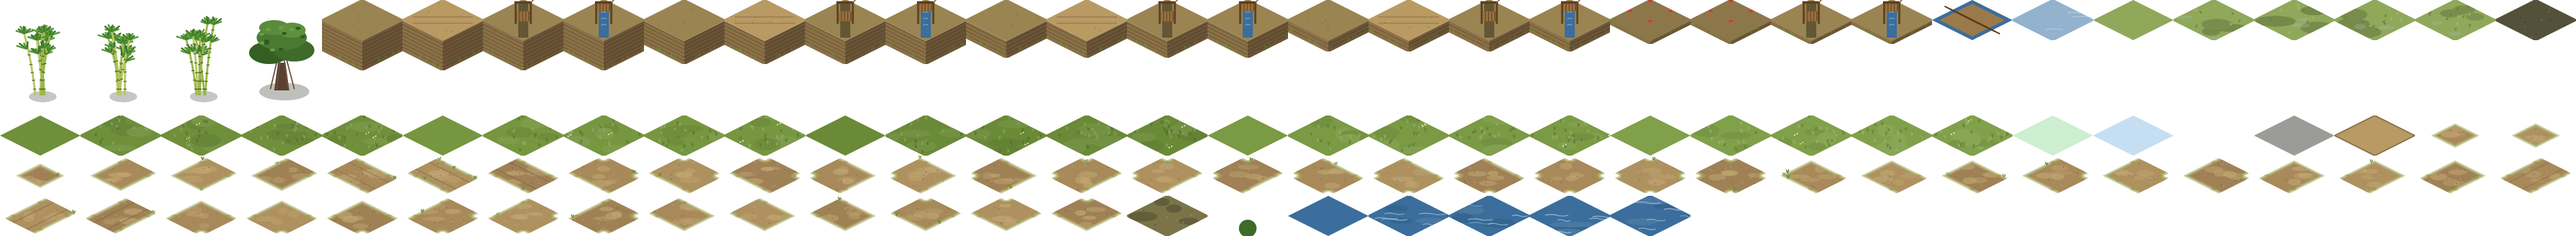
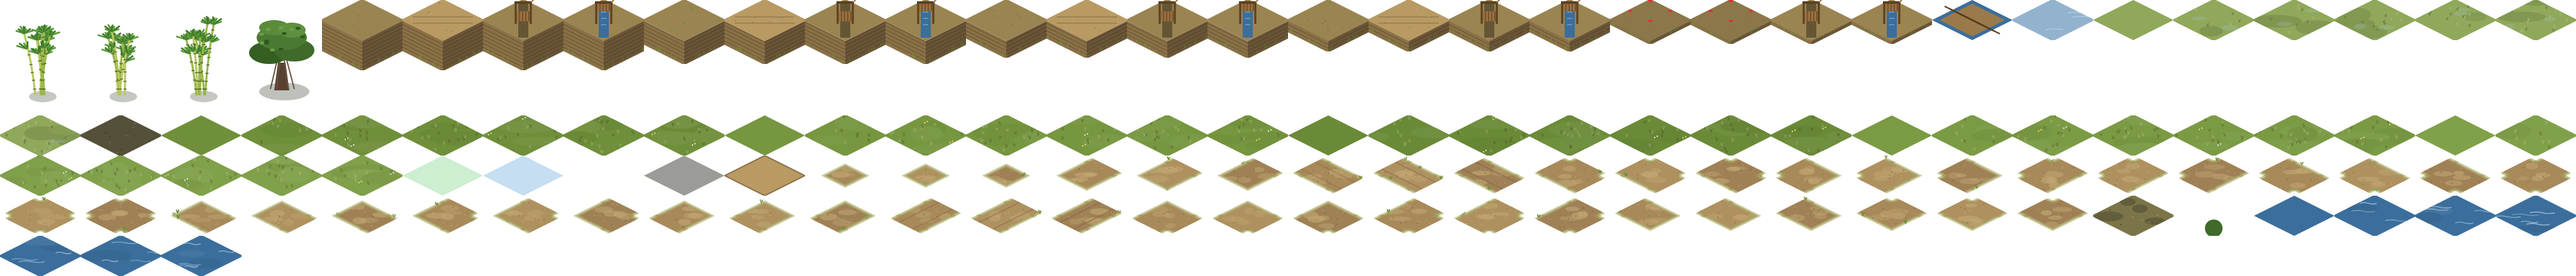
Nền đất: sửa băm ô lặp chu kỳ 4 (trộn bit, lấy bit cao), 6 biến thể nhẹ hơn, lật gương theo băm; đường và cây dùng cùng băm
Claude-Session: https://claude.ai/code/session_01P1LM4c1ZvJ6pKxVEFpyU72

diff --git a/src/render/chunks.ts b/src/render/chunks.ts
@@ -13,9 +13,15 @@ export const CHUNK = 16;
 /** số biến thể mỗi kiểu nối đường trong sheet ground (scripts/art/road.ts) */
 export const ROAD_VARIANTS = 3;
 /** số biến thể cỏ / bãi bồi / nước và cây (scripts/art/ground.ts); thiếu frame thì về frame không số */
-export const GROUND_VARIANTS = 4, TREE_VARIANTS = 4;
-/** băm ô → biến thể */
-export const tileHash = (x: number, y: number): number => (Math.imul(x, 73856093) ^ Math.imul(y, 19349663)) >>> 0;
+export const GROUND_VARIANTS = 6, TREE_VARIANTS = 4;
+/** Băm ô → số giả ngẫu nhiên 32 bit đã trộn kỹ (lấy bit cao khi chia dư: bit thấp của phép nhân lẻ lặp theo chu kỳ 2^k ô). */
+export function tileHash(x: number, y: number): number {
+  let h = (Math.imul(x, 0x9e3779b1) ^ Math.imul(y + 0x5bd1e995, 0x85ebca77)) >>> 0;
+  h ^= h >>> 15; h = Math.imul(h, 0x2c1b3c6d) >>> 0; h ^= h >>> 12; h = Math.imul(h, 0x297a2d39) >>> 0; h ^= h >>> 15;
+  return h >>> 0;
+}
+/** chia dư trên bit cao của băm */
+export const hashMod = (h: number, n: number): number => (h >>> 8) % n;
 const CHUNKS_PER_SIDE = GRID_SIZE / CHUNK;
 
 /** Kích thước móng tại ô neo: đống tro ghi kích thước vào bLevel. */
@@ -204,7 +210,7 @@ export class ChunkLayer {
 
   private ground(key: string): Texture | null { return frameOf(this.sheets.ground, key); }
   /** `${base}_${k}` nếu sheet có biến thể, không thì `base`. */
-  private variant(base: string, hash: number): string { const k = `${base}_${hash % GROUND_VARIANTS}`; return this.ground(k) ? k : base; }
+  private variant(base: string, hash: number): string { const k = `${base}_${hashMod(hash, GROUND_VARIANTS)}`; return this.ground(k) ? k : base; }
 
   /** Hoạt ảnh đè (lửa, khói): ~6 khung/giây, lặp theo số khung của mỗi loại. Gọi mỗi frame với thời gian ms. */
   animate(ms: number): void {
@@ -217,8 +223,7 @@ export class ChunkLayer {
   private roadFrame(x: number, y: number): string | null {
     const road = (xx: number, yy: number): boolean => xx >= 0 && yy >= 0 && xx < GRID_SIZE && yy < GRID_SIZE && (this.terrain[yy * GRID_SIZE + xx] & T_ROAD) !== 0;
     const mask = (road(x, y - 1) ? 1 : 0) | (road(x + 1, y) ? 2 : 0) | (road(x, y + 1) ? 4 : 0) | (road(x - 1, y) ? 8 : 0);
-    const v = (Math.imul(x, 73856093) ^ Math.imul(y, 19349663)) >>> 0;
-    const key = `road_${mask}_${v % ROAD_VARIANTS}`;
+    const key = `road_${mask}_${hashMod(tileHash(x, y), ROAD_VARIANTS)}`;
     return this.ground(key) ? key : null;
   }
 
@@ -253,9 +258,9 @@ export class ChunkLayer {
     for (const sp of this.trees.get(c) ?? []) sp.destroy();
     const treeSprites: Sprite[] = [];
     this.trees.set(c, treeSprites);
-    const add = (key: string, wx: number, wy: number): void => {
+    const add = (key: string, wx: number, wy: number, mirror = false): void => {
       const tex = this.ground(key);
-      if (tex) pc.addParticle(new Particle({ texture: tex, x: wx, y: wy + TILE_H, anchorX: 0.5, anchorY: 1 }));
+      if (tex) pc.addParticle(new Particle({ texture: tex, x: wx, y: wy + TILE_H, anchorX: 0.5, anchorY: 1, scaleX: mirror ? -1 : 1 }));
     };
     // Duyệt theo x+y tăng dần để thứ tự vẽ đúng (đê cao che ô phía sau)
     for (let s = 0; s < CHUNK * 2 - 1; s++) {
@@ -269,6 +274,7 @@ export class ChunkLayer {
         const dike = bt && isDike(bt as BuildingType);
         let base: string, roadKey: string | null = null;
         const hv = tileHash(x, y);
+        const mirror = ((hv >>> 4) & 1) === 1; // lật gương nền theo băm: gấp đôi số dạng không tốn frame
         const soil = t & T_SUNKEN ? 'sunken' : this.variant(t & T_FLOODPLAIN ? 'floodplain' : `grass${Math.min(4, this.elevation[i])}`, hv);
         if (t & T_WATER) base = t & T_ROAD ? 'bridge' : this.variant('water', hv); // M7: cầu gỗ
         else if (dike) base = t & T_FLOODPLAIN ? 'floodplain' : `grass${this.elevation[i]}`;
@@ -279,12 +285,12 @@ export class ChunkLayer {
         }
         else if (t & T_BUILDING) base = 'floor';
         else base = soil;
-        add(base, wx, wy);
+        add(base, wx, wy, mirror && base !== 'bridge');
         if (roadKey) add(roadKey, wx, wy);
         if (t & T_FLOODED) add('flooded', wx, wy);
         else if (this.overlay && t & T_FLOODPLAIN && !(t & T_WATER)) add(t & T_UNPROTECTED ? 'overlay_unprotected' : 'overlay_protected', wx, wy);
         if (t & T_TREE) { // cây: sprite riêng ở lớp công trình, biến thể theo băm (0–2 bụi tre, 3 cây đa — cây đa thưa hơn)
-          const tv = hv % 7 === 0 ? TREE_VARIANTS - 1 : hv % (TREE_VARIANTS - 1);
+          const tv = hashMod(hv, 7) === 0 ? TREE_VARIANTS - 1 : hashMod(hv, TREE_VARIANTS - 1);
           const tt = this.ground(`tree_${tv}`) ?? this.ground('tree');
           if (tt) { const sp = new Sprite(tt); sp.anchor.set(0.5, 1); sp.position.set(wx, wy + TILE_H); sp.zIndex = zIndexOf(x, y, LAYER_BUILDING); this.objects.addChild(sp); treeSprites.push(sp); }
         }

diff --git a/scripts/art/ground.ts b/scripts/art/ground.ts
@@ -4,7 +4,7 @@
 import { canvas, darken, hex, HALF_H, HALF_W, lighten, line, poly, rng, TILE_H, TILE_W, type Canvas, type Ctx } from './lib';
 import { COLOR } from '../../src/render/palette';
 
-export const GROUND_VARIANTS = 4;
+export const GROUND_VARIANTS = 6;
 export const TREE_VARIANTS = 4;
 
 /** Ô hình thoi 64×32 tô màu `fill`; vẽ thêm bằng `draw` trong vùng cắt hình thoi. */
@@ -29,10 +29,10 @@ const inTile = (r: () => number): [number, number] => { const u = r(), v = r(); 
 export function grassTile(e: number, k: number): Canvas {
   const base = COLOR.grass[Math.min(4, e)];
   return tile(hex(base), (g, r) => {
-    // loang màu nhẹ
-    for (let i = 0; i < 4; i++) { const [x, y] = inTile(r); g.fillStyle = hex(r() < 0.5 ? darken(base, 0.06) : lighten(base, 0.06)); g.beginPath(); g.ellipse(x, y, 6 + r() * 8, 2.5 + r() * 3, 0, 0, Math.PI * 2); g.fill(); }
-    // bụi cỏ
-    for (let i = 0; i < 14 + k * 3; i++) { const [x, y] = inTile(r); const col = hex(r() < 0.5 ? darken(base, 0.22) : lighten(base, 0.2)); line(g, [x, y], [x - 0.8, y - 2 - r() * 1.5], col, 0.6); line(g, [x, y], [x + 0.8, y - 2 - r()], col, 0.6); }
+    // loang màu rất nhẹ (vệt to mờ để nối với ô kề, không thành đốm)
+    for (let i = 0; i < 2 + (k % 3); i++) { const [x, y] = inTile(r); g.fillStyle = hex(r() < 0.5 ? darken(base, 0.035) : lighten(base, 0.04)); g.beginPath(); g.ellipse(x, y, 10 + r() * 14, 3 + r() * 4, 0, 0, Math.PI * 2); g.fill(); }
+    // bụi cỏ (mật độ khác nhau theo biến thể)
+    for (let i = 0; i < 8 + ((k * 5) % 11); i++) { const [x, y] = inTile(r); const col = hex(r() < 0.5 ? darken(base, 0.22) : lighten(base, 0.2)); line(g, [x, y], [x - 0.8, y - 2 - r() * 1.5], col, 0.6); line(g, [x, y], [x + 0.8, y - 2 - r()], col, 0.6); }
     // hoa dại (biến thể 1 và 3)
     if (k % 2 === 1) for (let i = 0; i < 2; i++) { const [x, y] = inTile(r); g.fillStyle = r() < 0.5 ? '#f0e070' : '#f0f0f0'; g.fillRect(x, y - 1, 1, 1); g.fillRect(x + 2, y - 2, 1, 1); }
   }, 1000 + e * 10 + k);
@@ -41,7 +41,7 @@ export function grassTile(e: number, k: number): Canvas {
 export function floodplainTile(k: number): Canvas {
   const base = COLOR.floodplain;
   return tile(hex(base), (g, r) => {
-    for (let i = 0; i < 3; i++) { const [x, y] = inTile(r); g.fillStyle = hex(darken(base, 0.12 + r() * 0.08)); g.beginPath(); g.ellipse(x, y, 7 + r() * 9, 2.5 + r() * 2.5, 0, 0, Math.PI * 2); g.fill(); } // vệt bùn
+    for (let i = 0; i < 1 + (k % 3); i++) { const [x, y] = inTile(r); g.fillStyle = hex(darken(base, 0.06 + r() * 0.06)); g.beginPath(); g.ellipse(x, y, 9 + r() * 12, 3 + r() * 3, 0, 0, Math.PI * 2); g.fill(); } // vệt bùn
     for (let i = 0; i < 2; i++) { const [x, y] = inTile(r); g.fillStyle = 'rgba(170,190,205,0.25)'; g.beginPath(); g.ellipse(x, y, 4 + r() * 4, 1.2 + r(), 0, 0, Math.PI * 2); g.fill(); } // ánh nước
     for (let i = 0; i < 6 + k * 2; i++) { const [x, y] = inTile(r); const col = hex(r() < 0.5 ? darken(base, 0.25) : lighten(base, 0.18)); line(g, [x, y], [x - 0.6, y - 1.5 - r()], col, 0.6); line(g, [x, y], [x + 0.8, y - 1.8 - r()], col, 0.6); }
   }, 1100 + k);
@@ -50,9 +50,9 @@ export function floodplainTile(k: number): Canvas {
 export function waterTile(k: number): Canvas {
   const base = COLOR.water;
   return tile(hex(base), (g, r) => {
-    for (let i = 0; i < 3; i++) { const [x, y] = inTile(r); g.fillStyle = hex(r() < 0.5 ? darken(base, 0.08) : lighten(base, 0.07)); g.beginPath(); g.ellipse(x, y, 8 + r() * 10, 2 + r() * 2, 0, 0, Math.PI * 2); g.fill(); }
+    for (let i = 0; i < 1 + (k % 2); i++) { const [x, y] = inTile(r); g.fillStyle = hex(r() < 0.5 ? darken(base, 0.05) : lighten(base, 0.05)); g.beginPath(); g.ellipse(x, y, 10 + r() * 12, 2.5 + r() * 2.5, 0, 0, Math.PI * 2); g.fill(); }
     // gợn sóng: nét sáng ngắn lượn theo trục ngang, lệch theo biến thể
-    for (let i = 0; i < 5; i++) {
+    for (let i = 0; i < 3 + (k % 3); i++) {
       const [x, y] = inTile(r); const w = 5 + r() * 6;
       g.strokeStyle = `rgba(200,225,240,${0.35 + r() * 0.3})`; g.lineWidth = 0.7;
       g.beginPath(); g.moveTo(x - w, y); g.quadraticCurveTo(x - w / 2, y - 1.2, x, y); g.quadraticCurveTo(x + w / 2, y + 1.2, x + w, y); g.stroke();

diff --git a/README.md b/README.md
@@ -214,7 +214,7 @@ Giữ đúng thiết kế: Ân sủng −2/năm, chiếu chỉ trễ lần đầ
 - **Cháy, sập, tro** (`scripts/art/ruins.ts`, sim `spawn.ts` / `risk.ts`): đống tro có ba giai đoạn ghi ở bit 4–5 của `bLevel` (4 bit thấp vẫn là cỡ móng) — `ruins_n` đang cháy (nền cháy đen, cột cháy dở, xà đổ, than hồng) với **lửa hoạt ảnh** `fire_n_0..3` (ngọn lửa ba lớp đỏ / cam / vàng thở và nghiêng theo khung, khói đen) là sprite con đè lên, render đổi khung ~6 lần/giây (`ChunkLayer.animate`); nửa sau thời gian cháy chuyển `ash_n` tro nguội (gò tro xám, cột cháy, khói mỏng, không lửa, không cháy lan); **sập** nay không biến mất ngay mà thành `rubble_n` đống gạch vụn (mảng tường vỡ răng cưa, xà nghiêng, gạch ngói vụn, bụi) `economy.json → risk.collapseDays` ngày rồi dọn, không cháy lan (`collapseBuilding`). Bản lưu cũ: tro không có bit giai đoạn → coi là đang cháy.
 - **Khói bay** (`scripts/art/smoke.ts`): khói không vẽ tĩnh vào hình lò nữa — hàm vẽ lò ghi vị trí miệng ống khói (`CHIMNEYS` trong production.ts, so với đáy giữa hình), gen-art sinh `smoke_<key>_0..5` (6 cụm khói đi lên 40 px, nở ra, mờ dần, lượn và trôi sang phải, pha lệch theo khung nên lặp liền mạch) cho lò gốm, nhà sao chè, lò đúc, lò rèn. Render: cơ chế hoạt ảnh đè dùng chung với lửa (`ChunkLayer.anims`): sprite con `smoke_<key>` hoặc `fire_<n>`, đếm số khung có trong sheet, đổi ~6 khung/giây.
 - **Kho và dịch vụ** (`scripts/art/services.ts`): kho 3×3 (nhà ván lợp ngói ba gian, thùng gỗ và bao tải ở sân), chùa (nền đá, ba cửa sơn đỏ, bờ nóc trang trí, tháp bốn tầng, lư hương, phướn vàng, cây), lớp học thầy đồ (nhà đất mái rơm, chõng tre, bảng gỗ, rào), nhà thuốc (nhà vôi ngói, nong phơi thuốc, bảng hiệu), giếng gạch (thành gạch đỏ, mái ngói trên bốn cột), sân diễn chèo (sân khấu gỗ nâng, phông đỏ, mái rơm, trống chầu, chiếu khán giả, phướn), trường học (tường bao, cổng, bia đá, lư hương), thủy đình (ao gạch, đình trên cột giữa nước mái hai tầng, mành tre, ba con rối), miếu Hà Bá (miếu đỏ nhỏ mái ngói trên nền đá, lư hương, phướn), đàn tế Tiên nông (hai bậc đá, lư hương, bó lúa, cờ), Văn Miếu 3×3 (tường bao, nhà chính năm gian trên nền đá, hai dãy bia đá, giếng Thiên Quang, cổng), Quốc Tử Giám 3×3 (nhà chính hai tầng gạch, hai nhà ngang, ao, gác Khuê Văn cửa tròn trên cổng), vườn cây (lối gạch chữ thập, bốn luống hoa, cây), ao sen (bờ đá, lá sen, hoa hồng). Bộ phận: `incense`, `banner`, `platform`, `stupa`, `compound`.
-- **Nền đất** (`scripts/art/ground.ts`): cỏ theo cao độ 0–4 × 4 biến thể (loang màu, bụi cỏ, hoa dại ở biến thể lẻ), bãi bồi 4 biến thể (vệt bùn, ánh nước, cỏ thưa), sông 4 biến thể (gợn sóng sáng), đất trũng, nền móng, nước lũ phủ (nửa trong suốt có gợn); render chọn biến thể theo băm tọa độ (`tileHash`, `GROUND_VARIANTS`), thiếu frame thì về frame không số. Hình thoi nới ra 0,8 px mỗi phía để lọc tuyến tính ở 2× không lộ khe giữa hai ô. **Tre**: ô cây (`T_TREE`) vẽ bụi tre (3 biến thể: 6–9 cây thon nghiêng ra, đốt sẫm, lá dài ở ngọn và lưng chừng) hoặc cây đa (1/7 số ô, gốc to, rễ phụ, tán nhiều tầng); cây là sprite ở lớp công trình với zIndex theo ô nên ngọn tre che đúng thứ tự trước / sau, quản lý theo chunk.
+- **Nền đất** (`scripts/art/ground.ts`): cỏ theo cao độ 0–4 × 4 biến thể (loang màu, bụi cỏ, hoa dại ở biến thể lẻ), bãi bồi 4 biến thể (vệt bùn, ánh nước, cỏ thưa), sông 4 biến thể (gợn sóng sáng), đất trũng, nền móng, nước lũ phủ (nửa trong suốt có gợn); render chọn biến thể theo băm tọa độ (`tileHash` trộn bit kỹ và lấy bit cao — bit thấp của phép nhân lẻ lặp theo chu kỳ 2^k ô nên lúc đầu nền thành lưới đều; `GROUND_VARIANTS` = 6; thêm lật gương theo băm để gấp đôi số dạng không tốn frame), thiếu frame thì về frame không số. Hình thoi nới ra 0,8 px mỗi phía để lọc tuyến tính ở 2× không lộ khe giữa hai ô. **Tre**: ô cây (`T_TREE`) vẽ bụi tre (3 biến thể: 6–9 cây thon nghiêng ra, đốt sẫm, lá dài ở ngọn và lưng chừng) hoặc cây đa (1/7 số ô, gốc to, rễ phụ, tán nhiều tầng); cây là sprite ở lớp công trình với zIndex theo ô nên ngọn tre che đúng thứ tự trước / sau, quản lý theo chunk.
 - **Quản trị và quân sự** (`scripts/art/military.ts`): điếm canh (chòi hai tầng cột tre, sàn có lan can, mõ, mái rơm, thang, cờ đỏ), trại thợ (mái che, giá cưa, đống gỗ, gạch, thùng vữa), nha môn (nền đá, tường vôi ba gian cửa đỏ, bờ nóc trang trí, trống, bình phong, hai cột cờ, tường bao, cổng), bến cảng (cầu tàu gỗ lớn trên cọc, cọc neo, nhà kho ngói, cần cẩu gỗ, thùng hàng, cờ xanh), trại lính (hàng rào gỗ nhọn, nhà ván ngói, giá giáo, bù nhìn tập, trống, cổng trại, cờ), thành đất (ô nâng trọn hình thoi cao 14 px, vân đất nện, cỏ chân, chông tre trên đỉnh), thành đá (cao 20 px, khối đá xếp so le, lỗ châu mai dọc hai cạnh sau), cổng thành (lầu cổng gạch có vòm ở hai mặt trước để đường chạy qua, lầu gỗ lan can, mái ngói), bến thuyền (cầu gỗ nhỏ trên cọc, cọc neo có dây, thúng cá, chum). Thành đất / đá dùng cùng hình học ô nâng như đê nên các đoạn kề nối liền.
 - **Đê điều** (`scripts/art/dike.ts`, sheet ground): đoạn đê cao 0–4 trọn hình thoi nâng `dikeHeightPx(h)` (sườn đất có vân tầng và cỏ chân, mặt đê đất nện có cỏ thưa hai mép; mức 0 là gờ thấp cắm cọc tre cờ đỏ làm mốc), đê có đường vắt qua (mặt đường vàng, hai rãnh bánh xe), cống đóng / mở (rãnh xuyên đê, khung gỗ hai cột xà ngang, ván cống chắn rãnh khi đóng hoặc kéo lên treo dưới xà khi mở với nước xanh chảy qua, tay quay). Hình thoi nới 0,8 px chống khe. **Hết hình tạm**: mọi frame công trình, nền, walker đều là hình vẽ thật; `gen-placeholders` chỉ còn tạo lớp phủ (reserved, overlay) và khối dự phòng.
 
